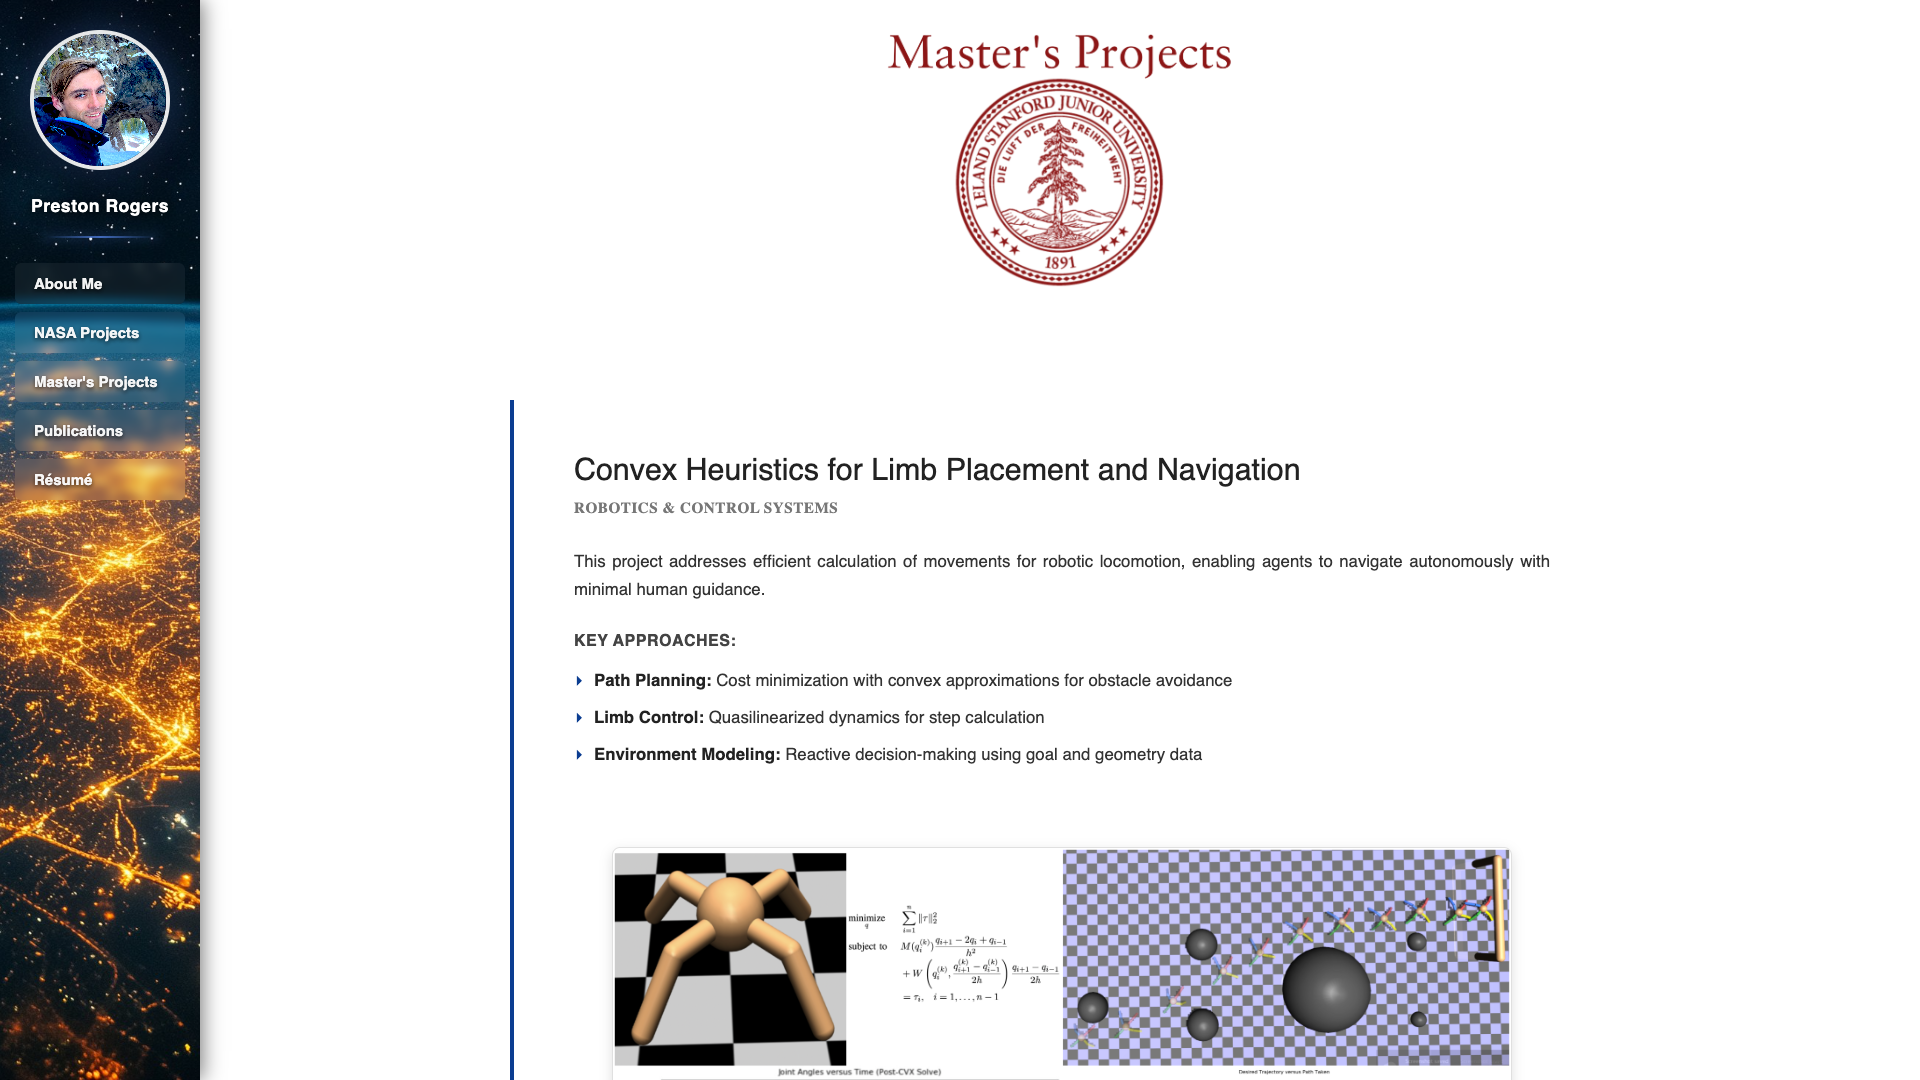
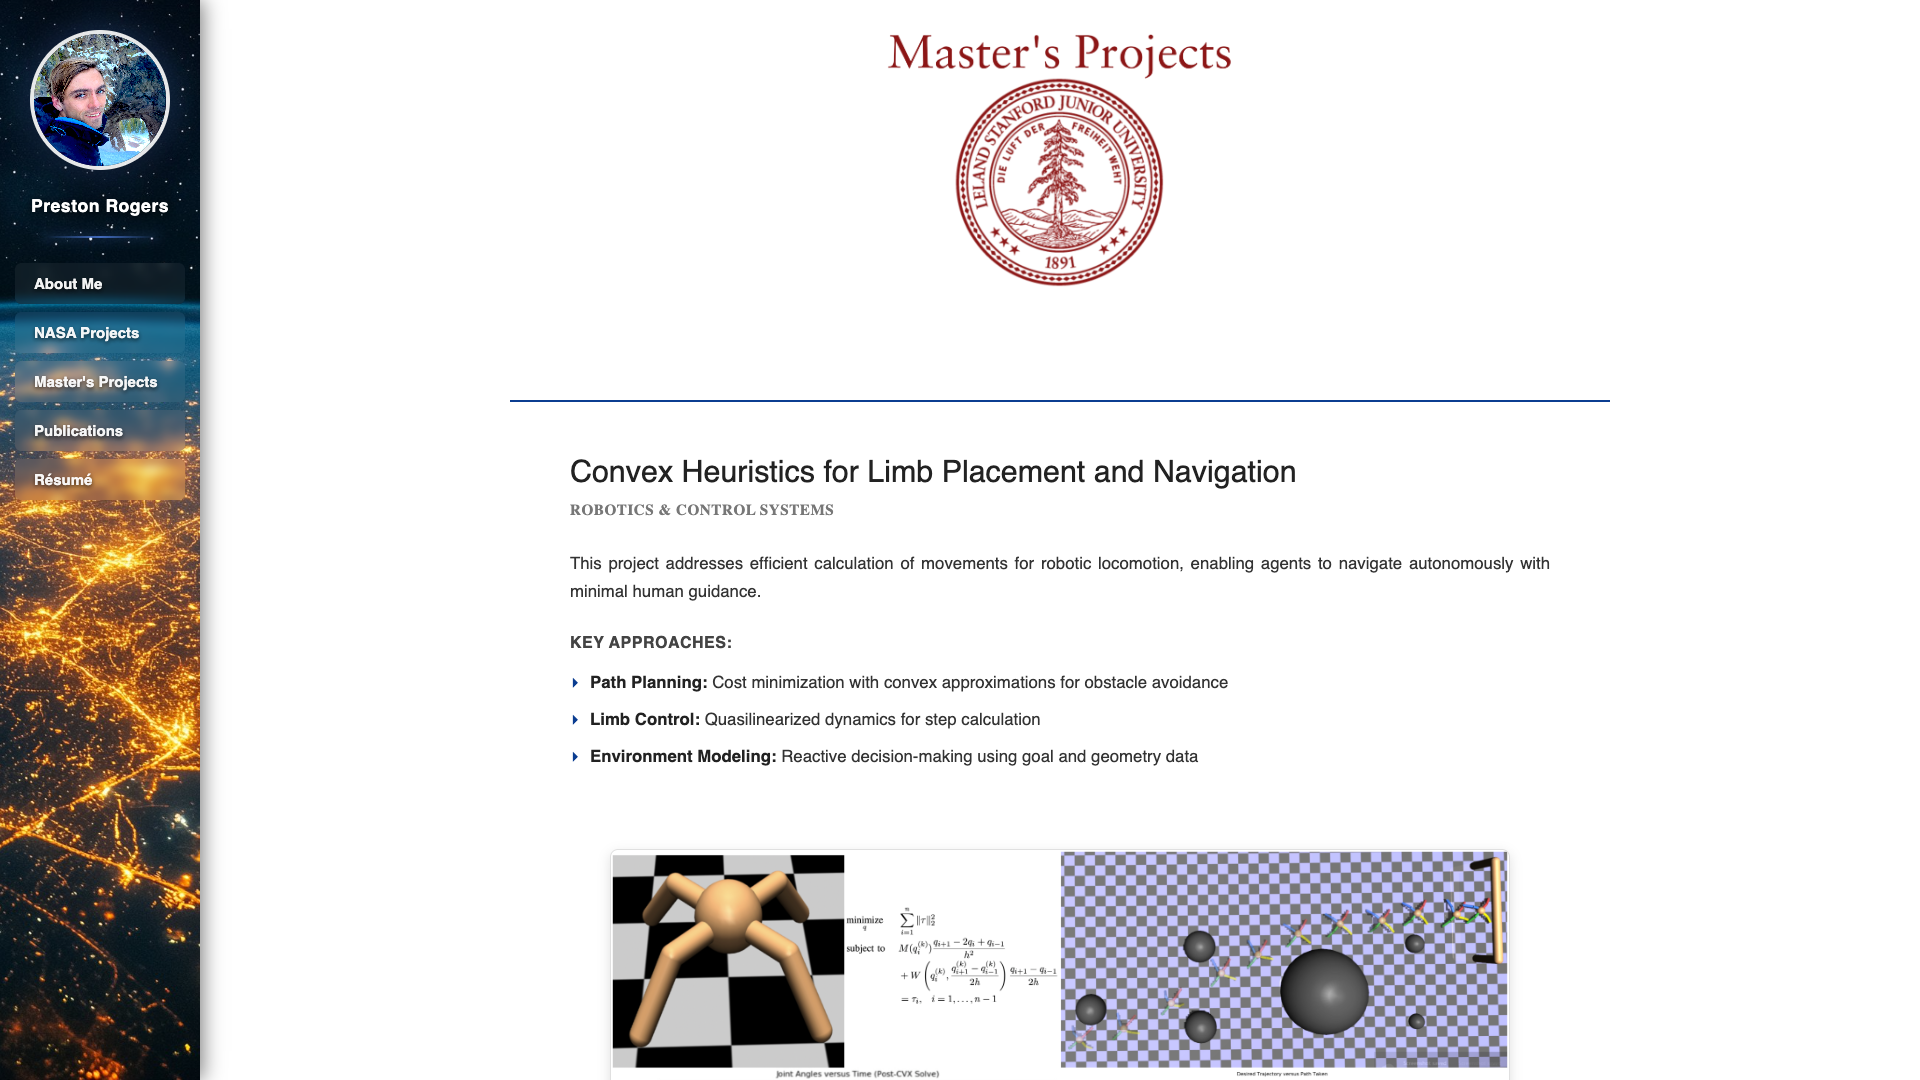
Again

diff --git a/src/pages/MastersProjects.jsx b/src/pages/MastersProjects.jsx
@@ -9,7 +9,7 @@ const MastersProjects = () => {
       </header>
 
       {/* Convex Heuristics Project */}
-      <div className="project-card">
+      <div className="masters-project-card">
         <div className="project-content">
           <h2>Convex Heuristics for Limb Placement and Navigation</h2>
           <p className="project-meta">Robotics & Control Systems</p>
@@ -42,7 +42,7 @@ const MastersProjects = () => {
       </div>
 
       {/* Robot Arm Project */}
-      <div className="project-card">
+      <div className="masters-project-card">
         <div className="project-content">
           <h2>Rigid Body Control Via Muscle Activity Interpretation</h2>
           <p className="project-meta">Machine Learning & Biomedical Engineering</p>
@@ -75,7 +75,7 @@ const MastersProjects = () => {
       </div>
 
       {/* Neural Network Copycat Project */}
-      <div className="project-card">
+      <div className="masters-project-card">
         <div className="project-content">
           <h2>Deep Neural Network with Confidence Measure as MPC Copycat</h2>
           <p className="project-meta">Control Theory & Deep Learning</p>

diff --git a/src/styles/MastersProjects.css b/src/styles/MastersProjects.css
@@ -10,12 +10,12 @@
   margin: 0 auto;
 }
 
-.project-card {
+.masters-project-card {
   max-width: 1100px;
   margin: 50px auto;
   padding: 50px 60px;
   background: #ffffff;
-  border-left: 4px solid #0B3D91;
+  box-shadow: 0 2px 8px rgba(0, 0, 0, 0.08);
 }
 
 .project-content h2 {
@@ -143,7 +143,7 @@
 }
 
 @media (max-width: 1000px) {
-  .project-card {
+  .masters-project-card {
     padding: 40px 45px;
   }
 
@@ -157,7 +157,7 @@
     height: 200px;
   }
 
-  .project-card {
+  .masters-project-card {
     padding: 30px 25px;
   }
 

diff --git a/src/styles/AboutMe.css b/src/styles/AboutMe.css
@@ -114,8 +114,6 @@
 
 .edu-item {
   margin-bottom: 30px;
-  padding-left: 20px;
-  border-left: 3px solid #0B3D91;
 }
 
 .edu-item h3 {
@@ -150,7 +148,7 @@
   padding: 20px;
   background: #f9f9f9;
   border-radius: 6px;
-  border-left: 4px solid #0B3D91;
+  border-top: 2px solid #0B3D91;
 }
 
 .exp-header {

diff --git a/src/styles/Resume.css b/src/styles/Resume.css
@@ -24,7 +24,7 @@
   margin: 20px auto 50px auto;
   padding: 40px 50px;
   background: #ffffff;
-  border-left: 4px solid #0B3D91;
+  border-top: 2px solid #0B3D91;
   box-shadow: 0 2px 8px rgba(0, 0, 0, 0.08);
 }
 

diff --git a/src/styles/NasaProjects.css b/src/styles/NasaProjects.css
@@ -16,7 +16,7 @@
   margin: 50px auto;
   padding: 50px 60px;
   background: #ffffff;
-  border-left: 4px solid #0B3D91;
+  border-top: 2px solid #0B3D91;
 }
 
 .project-content h2 {

diff --git a/src/styles/Publications.css b/src/styles/Publications.css
@@ -16,7 +16,6 @@
   margin: 50px auto;
   padding: 40px 60px;
   background: #ffffff;
-  border-left: 4px solid #0B3D91;
 }
 
 .pub-content h2 {
